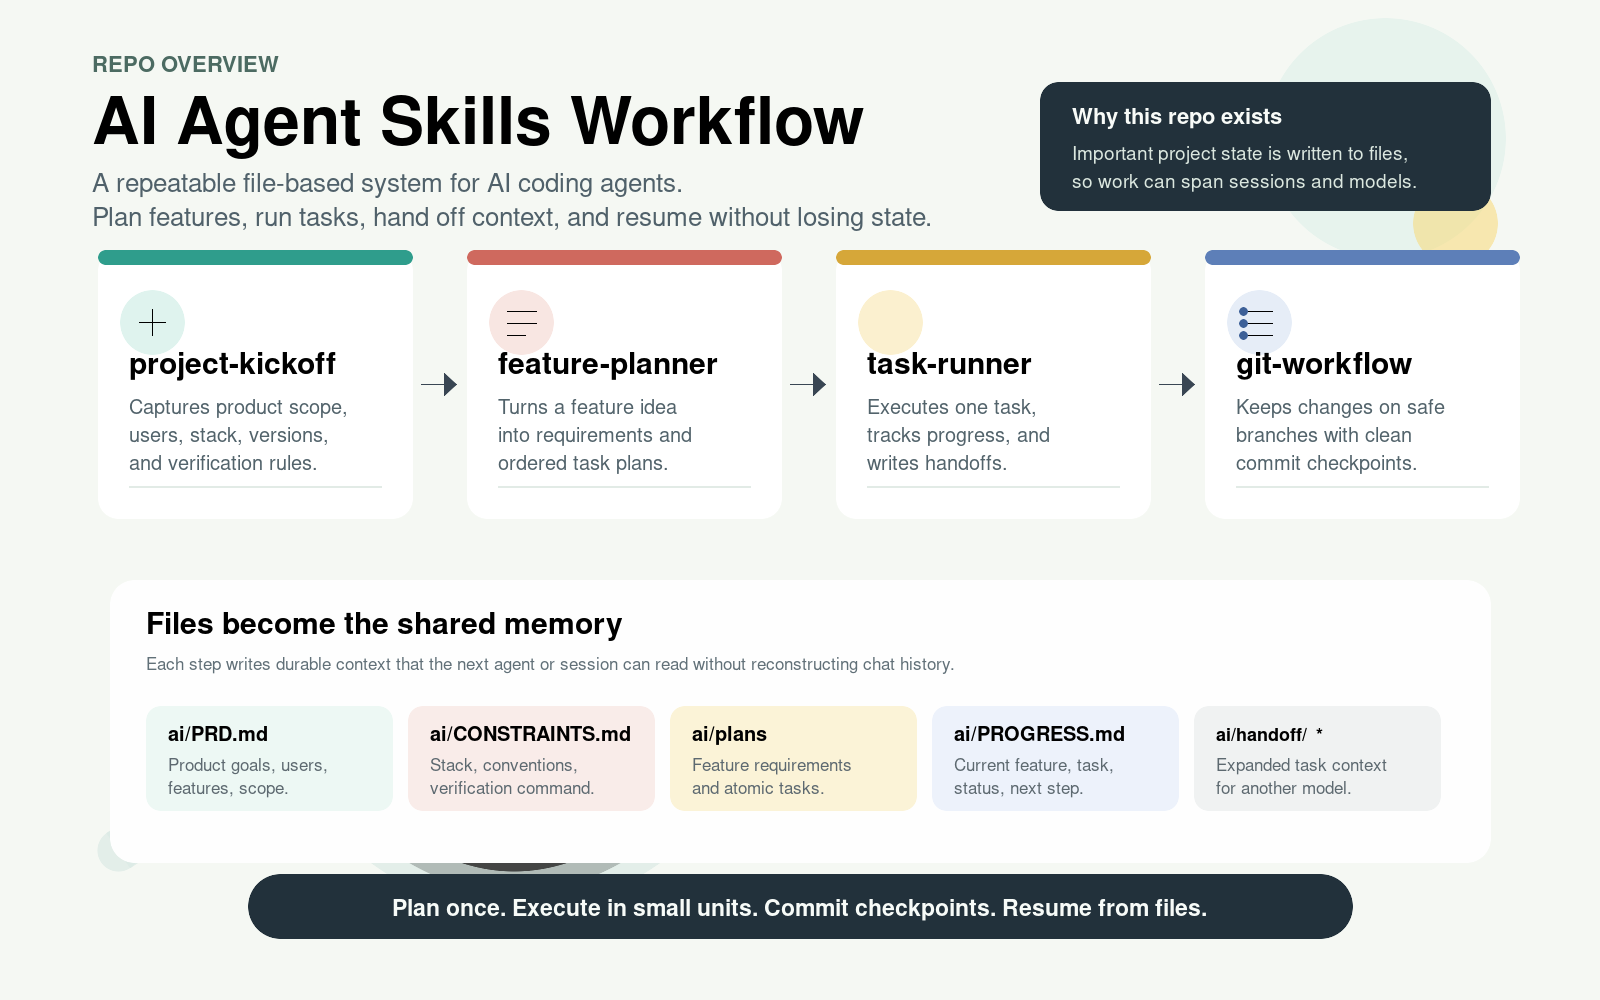
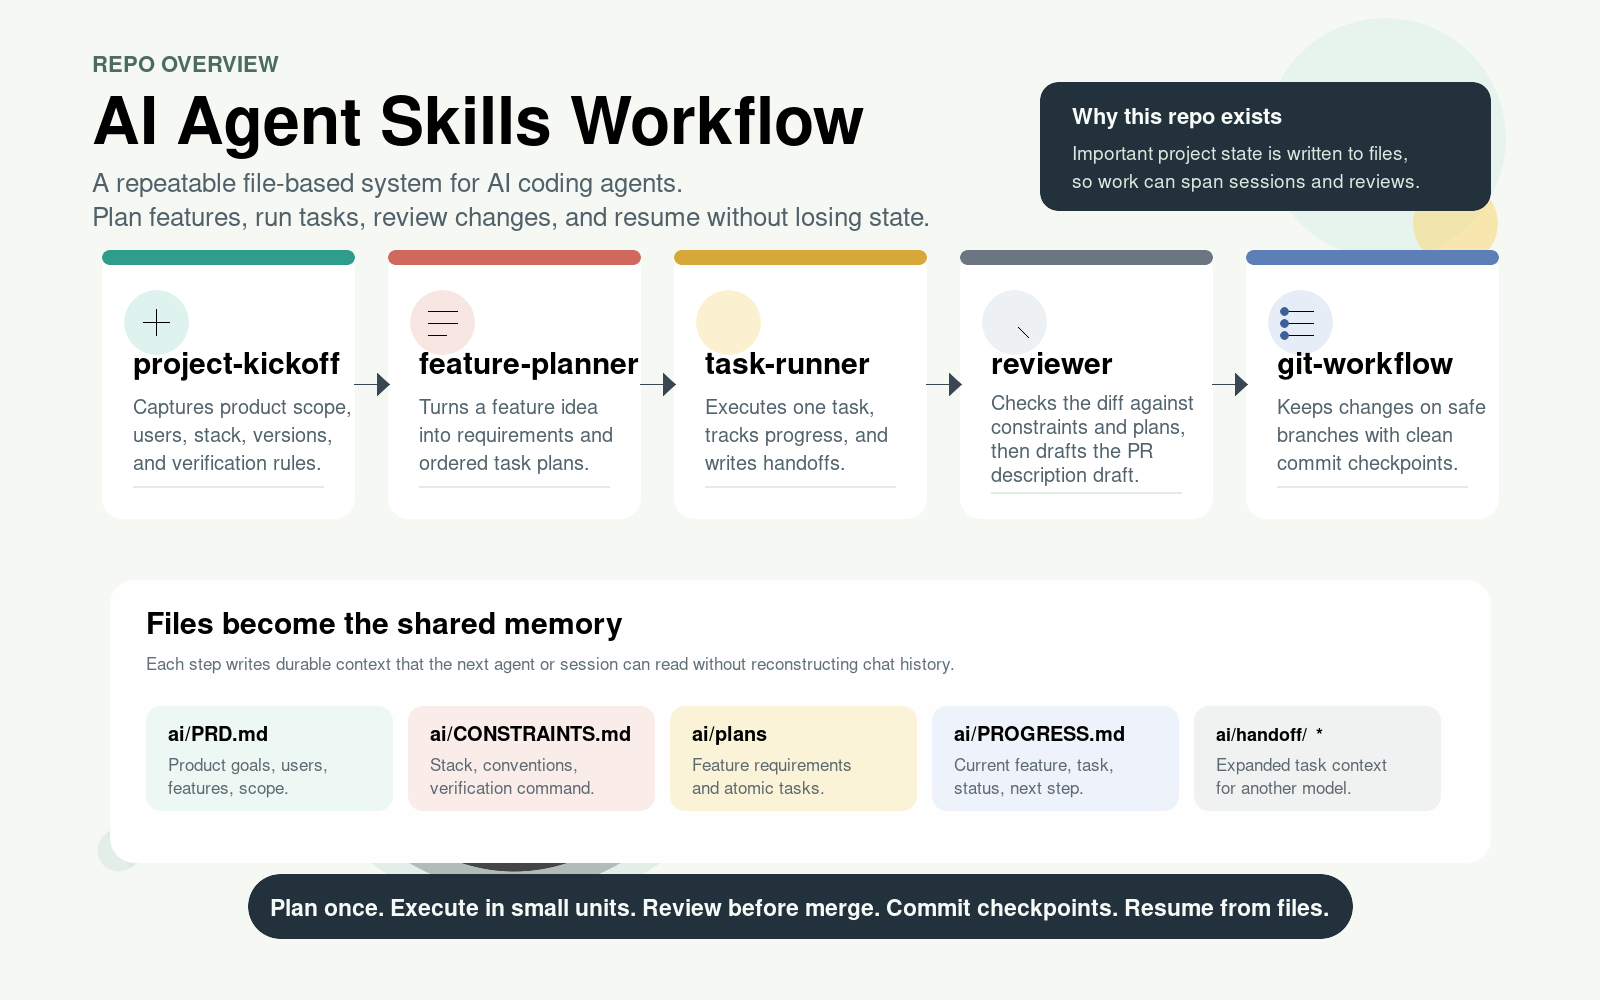
add reviewer

diff --git a/skills/reviewer/SKILL.md b/skills/reviewer/SKILL.md
@@ -1,0 +1,205 @@
+---
+name: reviewer
+description: >
+  Review implemented code against the project's own constraints and plan files,
+  then draft a PR description. Use after task-runner completes a feature. Trigger
+  phrases: "review this", "review the code", "review the PR", "check the code",
+  "is this ready to merge", "code review". Also trigger when the developer mentions
+  a feature or branch name in the context of wanting it reviewed before merging.
+---
+
+# Reviewer
+
+You are reviewing code written by an AI coding agent on behalf of an experienced
+full-stack developer (Laravel + React, 12+ years). Your job is to check the
+implementation against the project's own constraints and plan files, not to do
+a generic style review.
+
+This is a single-pass, read-only review. You do not modify code. You do not
+auto-fix issues. You read, analyze, and report.
+
+---
+
+## What to Read
+
+### Required
+
+1. **Git diff** — run all three commands:
+   - `git diff main...HEAD` — full diff of changes
+   - `git diff --stat main...HEAD` — file summary
+   - `git log main..HEAD --oneline` — commit history
+   - If `main` fails, try `master`. If neither exists, ask the developer.
+
+2. **`ai/CONSTRAINTS.md`** — stack, versions, coding conventions, verification
+   command, and exclusions. This is the primary benchmark for the review.
+
+### Optional (read if they exist)
+
+3. **`ai/PRD.md`** — product context for understanding why the feature exists
+4. **`ai/plans/<feature-name>/requirements.md`** — what was supposed to be built
+5. **`ai/plans/<feature-name>/*.md`** — plan files with tasks, subtasks, key
+   files, and verification steps
+6. **`ai/PROGRESS.md`** — current feature and task state
+
+---
+
+## Determining Which Feature to Review
+
+Detect in this order:
+
+1. Developer specifies: "review the auth feature" → read `ai/plans/auth/`
+2. Branch name match: branch `feature/auth-endpoints` → look for `ai/plans/auth/`
+3. `ai/PROGRESS.md` — check the current feature field
+4. Ask the developer if none of the above work
+
+If no plan files exist for the feature, or if there is no `ai/plans/` directory
+at all, skip the Plan Compliance section and note that no plan was found. Continue
+with the rest of the review.
+
+---
+
+## Running the Review
+
+### 1. Plan Compliance
+
+Check against `requirements.md` and the plan files:
+
+- Were all subtasks completed? (check for unchecked `- [ ]` items)
+- Were all key files listed in the plan created or modified?
+- Was anything built that was NOT in the plan? (scope creep)
+- Were the verification steps from the plan satisfied?
+
+### 2. Constraint Compliance
+
+Check against `ai/CONSTRAINTS.md`:
+
+- Naming conventions — files, classes, methods, variables
+- Correct packages and versions
+- Coding patterns — e.g., thin controllers, form requests, service classes
+- Explicit exclusions — anything CONSTRAINTS.md says not to do
+- Language standards — e.g., typed properties, return types, strict mode
+
+### 3. Code Quality
+
+Focus only on issues that matter. Do not duplicate what linters catch.
+
+- Missing error handling in critical paths
+- Missing input validation
+- Obvious security issues — SQL injection, XSS, mass assignment
+- Dead code or unused imports
+- Inconsistent patterns within the PR itself
+
+### 4. Test Coverage
+
+- Were tests written for new functionality?
+- Do tests cover the key scenarios from the requirements?
+- Were edge cases from the requirements doc addressed?
+
+### 5. Verification
+
+Run verification commands automatically:
+
+1. Read the verification command from `ai/CONSTRAINTS.md` (e.g., `php artisan test`)
+2. Read task-specific verification commands from plan files
+3. Run them and include the full output in the report
+4. If a verification command fails, that is a Critical finding
+
+If no verification command exists, skip this section and note it.
+
+---
+
+## Output
+
+Produce both outputs in a single response. Do not ask questions or iterate —
+the developer reads the report and decides what to act on.
+
+### 1. Review Report
+
+```
+# Code Review: <feature-name>
+
+## Summary
+<2-3 sentences: what was implemented, overall assessment>
+
+## Verdict: <Ready to Merge | Needs Attention | Needs Work>
+
+## Findings
+
+### Critical (must fix before merge)
+- <file:line> — <explanation>
+
+### Warning (should fix, not blocking)
+- <file:line> — <explanation>
+
+### Note (suggestions)
+- <file:line> — <explanation>
+
+## Plan Compliance
+- Subtasks completed: X/Y
+- Key files addressed: X/Y
+- Scope: <On track | Scope creep detected | Incomplete>
+- <Details of any missing or extra work>
+
+## Constraint Compliance
+<List any violations, or "All constraints satisfied">
+
+## Test Coverage
+<Assessment relative to requirements>
+
+## Verification Results
+<Full output of verification command, or "No verification command found">
+```
+
+If a section has nothing to report, write "None" rather than omitting it.
+Empty sections are better than missing ones — they confirm you checked.
+
+### 2. PR Description Draft
+
+```
+## What Changed
+<Concise description of what was implemented>
+
+## Why
+<Context from PRD/requirements — what problem this solves>
+
+## Key Changes
+- <file or area>: <what changed and why>
+- <file or area>: <what changed and why>
+
+## Testing
+- <What tests were added>
+- <How to test manually>
+- <Verification command and result>
+
+## Plan Reference
+- Feature: <feature-name>
+- Tasks completed: <task IDs>
+```
+
+If `ai/PRD.md` does not exist, omit the "Why" section.
+
+---
+
+## Edge Cases
+
+| Situation | Behavior |
+|---|---|
+| No `CONSTRAINTS.md` | Warn that constraints could not be checked. Continue with code quality review only. |
+| No plan files for this feature | Skip Plan Compliance. Note that no plan was found. |
+| No `PRD.md` | Skip "Why" in the PR description. Continue. |
+| On `main` or `master` (no feature branch) | Stop. Output: "No changes to review. Switch to a feature branch first." |
+| No diff (branch is up to date with base) | Stop. Output: "No changes found between current branch and base." |
+| Base branch not found | Try both `main` and `master`. If neither works, ask the developer. |
+| Verification command fails | Report as Critical finding with full error output. |
+| Large diff (100+ files) | Warn about review scope. Review plan-referenced files first, then scan the rest. |
+
+---
+
+## Rules
+
+- Read-only. Never modify, create, or delete any file.
+- Single-pass. One report, not an interactive back-and-forth.
+- Run verification commands automatically when possible.
+- Do not duplicate what linters catch.
+- Keep findings specific — always include a file and line reference where applicable.
+- Conflict priority: developer's instructions > CONSTRAINTS.md > plan files.

diff --git a/README.md b/README.md
@@ -8,12 +8,13 @@ scripts for running structured software projects with AI coding agents.
 It is for developers who use tools like Claude Code, Codex, OpenCode, or any
 agent that can read local instruction files and follow a repeatable workflow.
 The goal is to keep product context, technical constraints, feature plans,
-implementation progress, handoffs, and git mechanics explicit enough that work
-can span multiple sessions and even multiple AI models without losing the plot.
+implementation progress, review feedback, handoffs, and git mechanics explicit
+enough that work can span multiple sessions and even multiple AI models
+without losing the plot.
 
 ## The Pipeline
 
-The four skills are designed to feed each other:
+The five skills are designed to feed each other:
 
 ```text
 project-kickoff (once per project)
@@ -27,11 +28,14 @@ feature-planner (per feature)
 task-runner (implementation)
 `-- reads CONSTRAINTS.md, PRD.md, requirements, and plan files
 
+reviewer (after task-runner completes a feature)
+`-- checks the diff against constraints and plans, then drafts the PR description
+
 git-workflow (underneath task-runner)
 `-- branches, commits, and end-of-task summaries via bash scripts
 ```
 
-Each step produces files the next step reads. The agent does not need to
+Each step produces context the next step reads. The agent does not need to
 reconstruct context from chat history because the important state is written
 into the project.
 
@@ -65,8 +69,10 @@ into the project.
 5. The agent runs the task verification command.
 6. task-runner marks the task [DONE] and updates ai/PROGRESS.md.
 7. git-workflow-commit commits the implementation and state updates.
-8. git-workflow-end prints the branch summary and suggested next steps.
-9. snapshot saves state before stopping.
+8. reviewer checks the branch against constraints and plans, then drafts the
+   PR description.
+9. git-workflow-end prints the branch summary and suggested next steps.
+10. snapshot saves state before stopping.
 ```
 
 ### Switching Models
@@ -99,14 +105,14 @@ For Codex:
 
 ```bash
 mkdir -p ~/.agents/skills
-cp -R skills/project-kickoff skills/feature-planner skills/task-runner skills/git-workflow ~/.agents/skills/
+cp -R skills/project-kickoff skills/feature-planner skills/task-runner skills/reviewer skills/git-workflow ~/.agents/skills/
 ```
 
 For Claude Code `~/.claude/skills`, copy them there instead:
 
 ```bash
 mkdir -p ~/.claude/skills
-cp -R skills/project-kickoff skills/feature-planner skills/task-runner skills/git-workflow ~/.claude/skills/
+cp -R skills/project-kickoff skills/feature-planner skills/task-runner skills/reviewer skills/git-workflow ~/.claude/skills/
 ```
 
 > Or you can symlink like me and just use `~/agents/skills` as the default skills directory.
@@ -157,6 +163,8 @@ under `scripts/`:
 |   |-- task-runner/
 |   |   |-- SKILL.md
 |   |   `-- HANDOFF.md
+|   |-- reviewer/
+|   |   `-- SKILL.md
 |   `-- git-workflow/
 |       `-- SKILL.md
 `-- scripts/
@@ -281,6 +289,34 @@ Agent: Reads constraints, PRD, auth requirements, auth plans, and PROGRESS.md.
 Agent: Calls git-workflow-start feature auth-token-management.
 Agent: Implements only task 2.3, runs its verification, marks it [DONE],
        updates PROGRESS.md, and commits the checkpoint.
+```
+
+### reviewer
+
+Use this after task-runner has completed a feature and before the branch is
+merged or turned into a PR.
+
+What it does:
+
+- Reads the git diff, commit history, `ai/CONSTRAINTS.md`, and any relevant
+  PRD or plan files.
+- Checks plan compliance, constraint compliance, code quality, and test
+  coverage.
+- Produces a single-pass review report and a PR description draft.
+
+What it produces:
+
+- A review report with findings, verdict, plan compliance, and verification
+  results.
+- A PR description draft that summarizes what changed and how it was tested.
+
+Example interaction:
+
+```text
+Developer: Review the auth feature.
+Agent: Reads the diff, constraints, plans, and progress files.
+Agent: Reports findings or confirms it is ready to merge, then drafts the PR
+       description.
 ```
 
 ### git-workflow
@@ -421,13 +457,13 @@ Conventions:
 
 ## FAQ
 
-### Do I need all four skills?
+### Do I need all five skills?
 
 No. `git-workflow` works on its own for small tasks, and `task-runner` can run
 existing plan files. The full pipeline works best when you want durable context:
 project kickoff creates shared project context, feature planner turns features
-into executable plans, task runner executes those plans, and git workflow handles
-the mechanical git steps.
+into executable plans, task runner executes those plans, reviewer checks the
+result before merge, and git workflow handles the mechanical git steps.
 
 ### What if I am working on a small task that does not need a plan?
 

diff --git a/skills/git-workflow/SKILL.md b/skills/git-workflow/SKILL.md
@@ -16,7 +16,7 @@ Run `git-workflow-start <type> <branch-name>` where:
 
 Example: `git-workflow-start fix cart-total`
 
-The script handles repo init, stashing, branch creation, and collision avoidance. Report its output to the user before proceeding.
+The script handles repo init, stashing, branch creation, and collision avoidance. Branch names use flat format (`type-name`, e.g. `fix-cart-total`) to avoid git ref conflicts. Report its output to the user before proceeding.
 
 ## During the task
 
